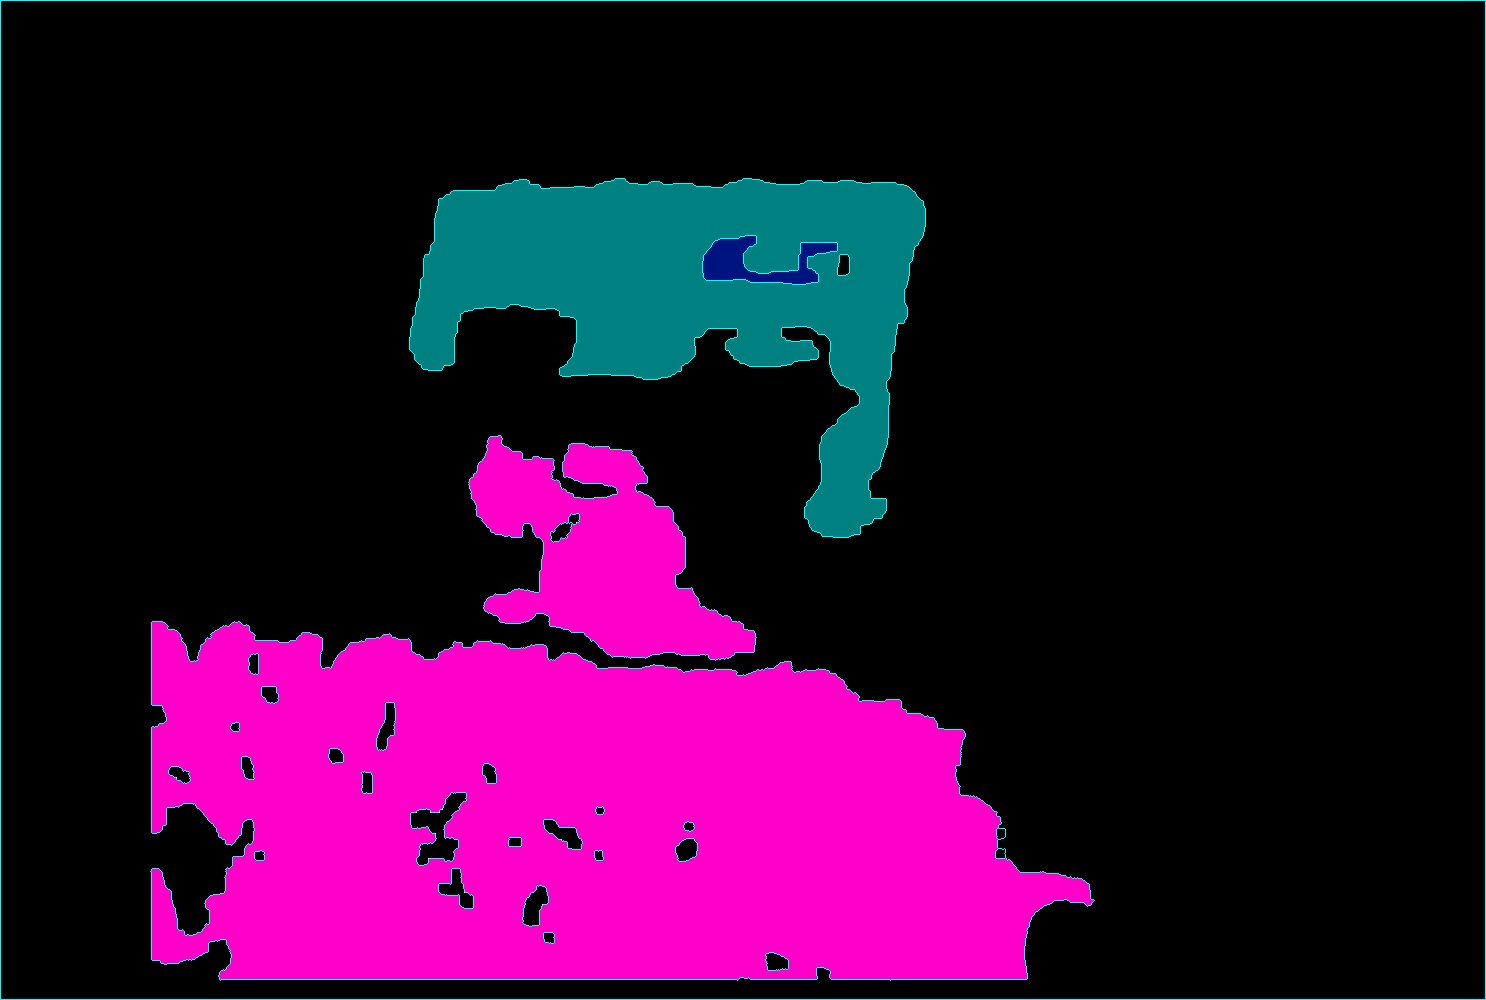
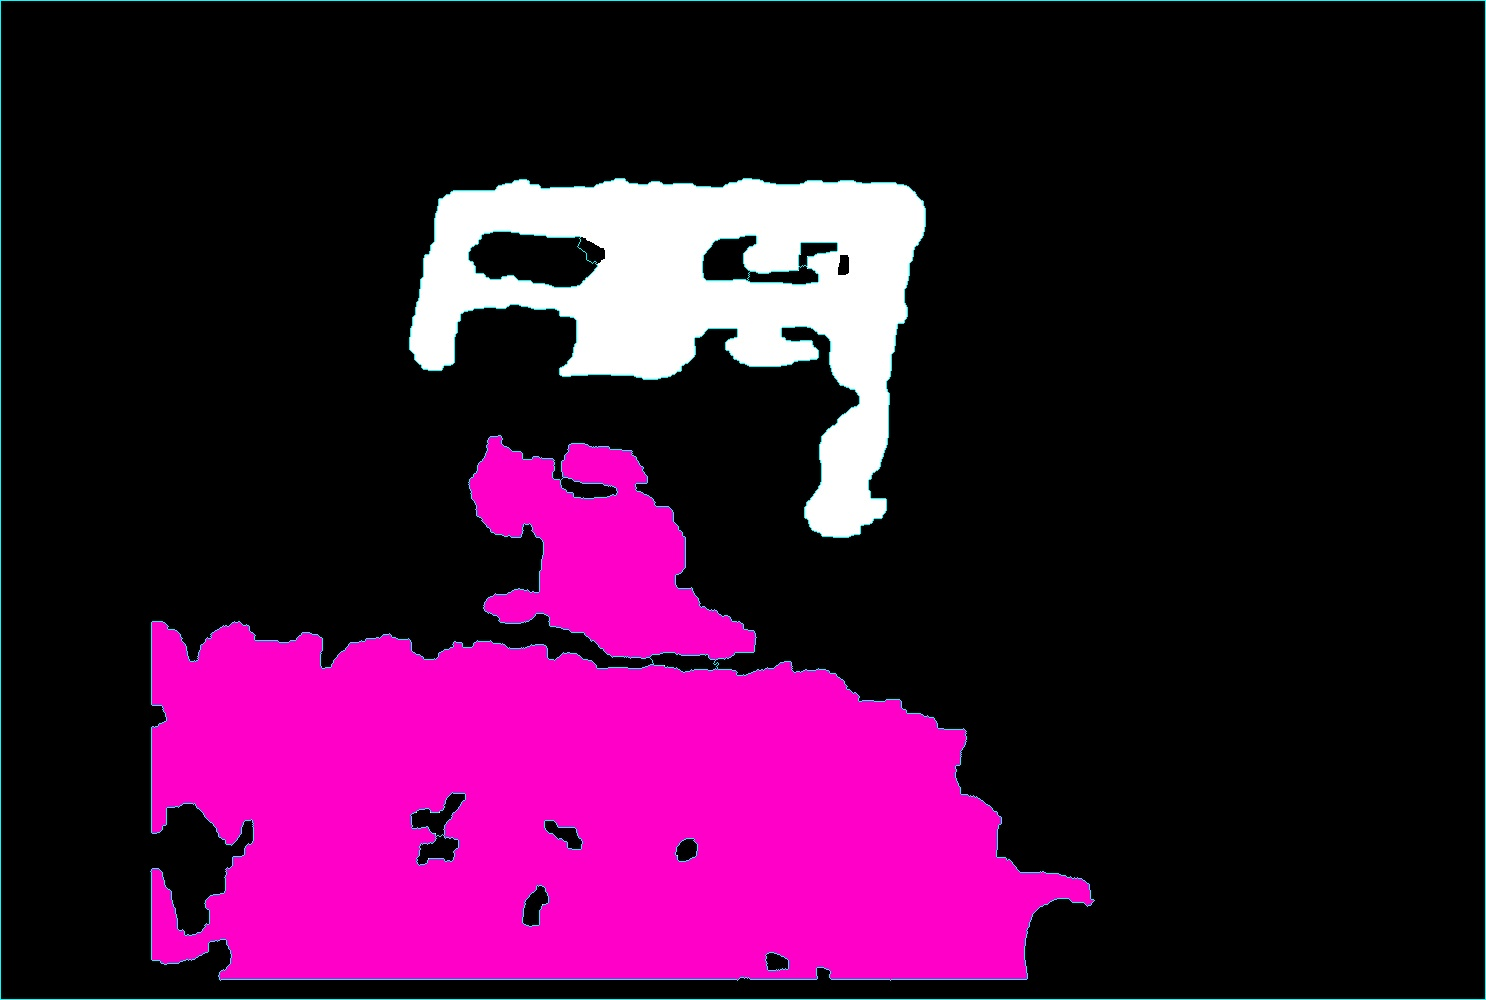
version 3 regions plus propre banc

diff --git a/watershed.py b/watershed.py
@@ -11,14 +11,14 @@ ret, thresh = cv2.threshold(gray,0,255,cv2.THRESH_BINARY_INV+cv2.THRESH_OTSU)
 
 
 # noise removal
-kernel = np.ones((11,11),np.uint8)
-kernel1 = np.ones((7,7),np.uint8)
+kernel = np.ones((12,12),np.uint8)
+kernel1 = np.ones((13,13),np.uint8)
 opening = cv2.morphologyEx(thresh,cv2.MORPH_OPEN,kernel1, iterations = 1)
 
 
 # sure background area
-sure_bg = cv2.dilate(opening,kernel,iterations=10)
-
+sure_erode = cv2.dilate(opening,kernel,iterations=5)
+sure_bg = cv2.dilate(sure_erode,kernel1,iterations=4)
 
 # Finding sure foreground area
 dist_transform = cv2.distanceTransform(opening,cv2.DIST_L2,5)
@@ -44,7 +44,7 @@ img[markers == -1] = [255,255,0]
 
 img[markers == 1] = [200,0,255]
 img[markers == 2] = [0,0,0]
-img[markers == 3] = [128,128,0]
+img[markers == 3] = [0,0,0]
 
-img[markers == 4] = [128,20,0]
+img[markers == 4] = [0,0,0]
 cv2.imwrite('segmented.jpg',img)
